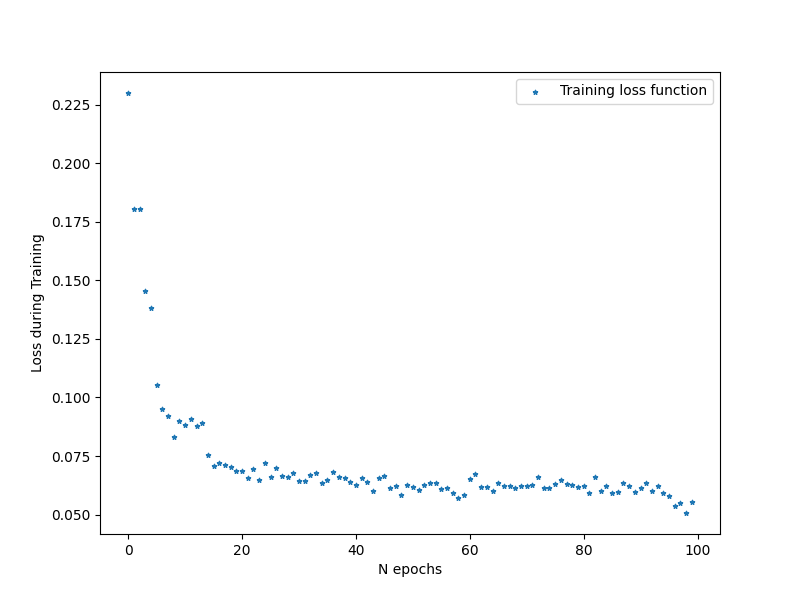
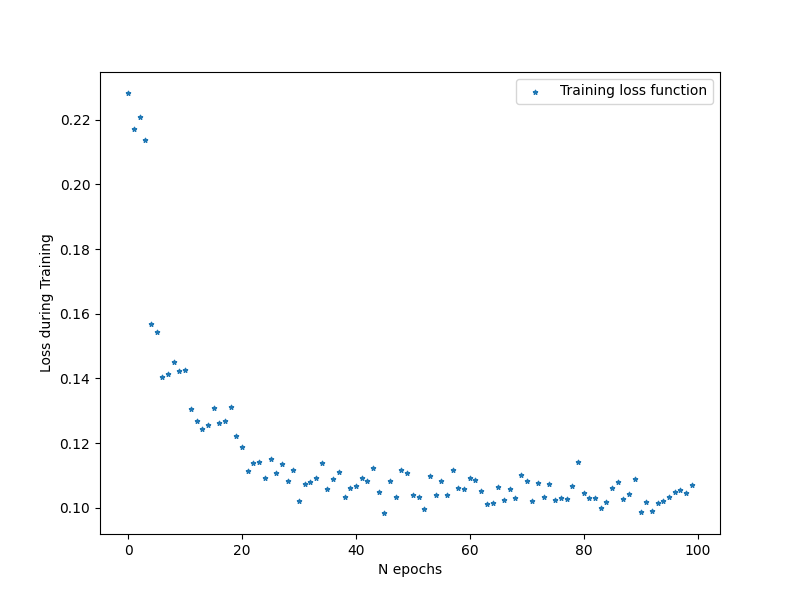
Training with minmax scaling and 21, 14 layer dimensions

diff --git a/autoencoder.py b/autoencoder.py
@@ -52,8 +52,8 @@ class AutoEncoder(nn.Module):
             nn.Linear(mid_dim, 35),
             nn.ReLU(),
             nn.Linear(35, input_dim),
-            # nn.ReLU() # MinMax Scaling 
-            nn.PReLU() # Standard Scaling
+            nn.ReLU() # MinMax Scaling 
+            # nn.PReLU() # Standard Scaling
         )
 
         # Initialize decoder weights with encoder weights
